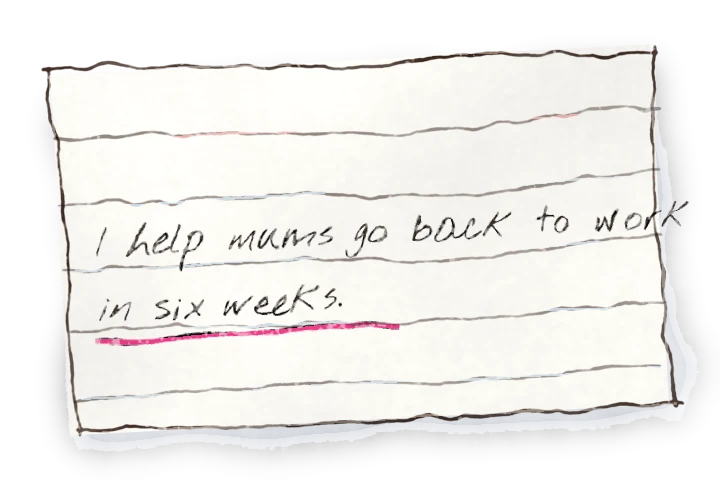
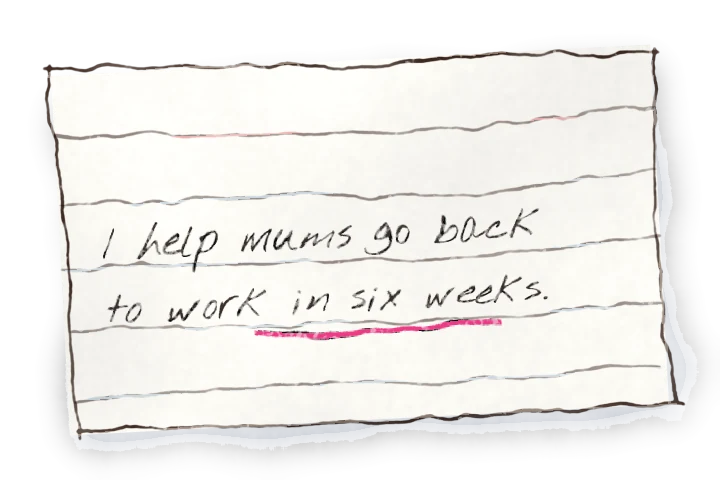
VIP page: thin pink 'Don't close or refresh this page' strip, floating header, coded Sprint lesson
- The warning is a thin pink strip above the header and scrolls away; the header is a floating pill with the steps segmented and no 'optional'.
- The Offer Clarity Sprint laptop shows a coded course player (her real lesson titles, money figures and later test questions blurred) that fills to 37% and ticks lessons as it comes into view.
- The clean card is repainted so the sentence fits; the EXAMPLE stamps and the phone-numbers line are gone.

Claude-Session: https://claude.ai/code/session_01MxqKXt8jC4twN2icxWpMeU

diff --git a/vip/index.html b/vip/index.html
@@ -1574,6 +1574,66 @@ footer{background-image:url(../img/vip/paint/tx-grain.webp);background-size:256p
 .anim .it .art.mv .dev,.anim .it.in .art.mv .dev{opacity:1;transform:none}
 .anim .it .art.mv .dev.ph{transform:none}
 .trk .sun{left:66%;width:min(600px,64%)}
+
+/* the top strip: thin, pink, scrolls away; the header is a floating pill */
+.keep{margin:0;padding:6px 16px;background:var(--pink);color:#fff;text-align:center;font-weight:700;font-size:13px;letter-spacing:.02em;line-height:1.3}
+.fb{position:sticky;top:10px;background:none;border:0;box-shadow:none;-webkit-backdrop-filter:none;backdrop-filter:none;padding:10px 16px 0}
+body.scrolled .fb{box-shadow:none}
+.fb-bar{max-width:1080px;margin:0 auto;grid-template-columns:auto 1fr auto;gap:22px;padding:8px 10px 8px 12px;border-radius:999px;
+  background:rgba(255,253,249,.86);-webkit-backdrop-filter:blur(18px) saturate(1.4);backdrop-filter:blur(18px) saturate(1.4);
+  border:1px solid rgba(26,20,18,.08);box-shadow:0 1px 1px rgba(60,40,20,.05),0 14px 34px -22px rgba(60,40,20,.45)}
+body.scrolled .fb-bar{padding:6px 8px 6px 10px}
+.fb-id img{width:36px;height:36px}
+body.scrolled .fb-id img{width:30px;height:30px}
+.fb-id b{font-size:19px}
+.steps{justify-self:center;gap:0;padding:4px;border-radius:999px;background:rgba(26,20,18,.045)}
+.st{padding:6px 14px 6px 8px;border-radius:999px;gap:8px;font-size:13px}
+.st i{width:20px;height:20px;font-size:10.5px}
+.st.now{background:#fff;box-shadow:0 1px 2px rgba(60,40,20,.12),0 4px 12px -6px rgba(247,37,133,.45);color:var(--ink)}
+.st.now i{box-shadow:none}
+.steps .ln{width:18px;margin:0 2px;background:rgba(26,20,18,.18)}
+.steps .ln.on{background:#2F9E5A}
+.fb-n{border:0;padding:0 12px 0 0;font-size:10.5px;letter-spacing:.18em}
+@media (max-width:860px){.fb{top:8px;padding:8px 10px 0}.fb-bar{grid-template-columns:auto 1fr auto;gap:8px}.st{padding:5px 8px}.fb-n{display:none}}
+@media (max-width:560px){.st .t{display:none}.st.now .t{display:inline}.st.now{padding:5px 10px 5px 6px}.keep{font-size:12px}}
+
+/* the Offer Clarity Sprint, coded: the course player, its money numbers blurred */
+.tch{position:absolute;inset:0;container-type:inline-size;display:grid;grid-template-columns:31% 1fr;background:#fff;font-family:Manrope,system-ui,sans-serif;color:#212121;overflow:hidden}
+.tch .bz{filter:blur(.55cqw);opacity:.85;user-select:none}
+.tch-side{background:#FAFAFA;border-right:1px solid #EEE;padding:3cqw 2cqw;overflow:hidden}
+.tch-t{display:block;font-weight:800;font-size:2.3cqw;letter-spacing:.02em}
+.tch-bar{display:block;height:.9cqw;margin:1.6cqw 0 .8cqw;border-radius:1cqw;background:#ECECEC;overflow:hidden}
+.tch-bar i{display:block;height:100%;width:0;background:#FFD600}
+.tch-pc{display:block;text-align:center;font-weight:800;font-size:1.7cqw;letter-spacing:.06em}
+.tch-pc b{font-size:2.6cqw}
+.tch-sec{margin:2.4cqw 0 1cqw;font-weight:800;font-size:2cqw;line-height:1.3}
+.tch-ls{list-style:none;display:grid;gap:.2cqw}
+.tch-ls li{display:grid;grid-template-columns:3cqw 1fr;gap:1.2cqw;align-items:center;padding:1cqw .6cqw;border-radius:.6cqw;font-size:1.75cqw;line-height:1.3}
+.tch-ls li i{width:2.6cqw;height:2.6cqw;border-radius:50%;border:.3cqw solid #FFD600;background:#fff}
+.tch-ls li.on{background:#FFF8D6}
+.tch-ls li.on i{background:linear-gradient(90deg,#FFD600 50%,#fff 50%)}
+.tch-ls li.dn i{background:#FFD600}
+.tch-main{padding:3.2cqw 4cqw;display:grid;align-content:start;gap:2cqw}
+.tch-h{font-weight:800;font-size:2.9cqw;line-height:1.2}
+.tch-vid{position:relative;aspect-ratio:16/9;border-radius:.8cqw;overflow:hidden;background:#1E1B3A}
+.tch-sl{position:absolute;inset:5% 8% 12%;color:#fff;display:grid;align-content:start;gap:.5cqw}
+.tch-sl .st{all:unset;display:block;text-align:center;color:#FFD600;font-weight:800;font-size:1.9cqw;letter-spacing:.04em}
+.tch-sl .ss{text-align:center;color:rgba(255,255,255,.55);font-size:1.4cqw;margin-bottom:.4cqw}
+.tch-sl ol{list-style:none;display:grid;gap:.45cqw}
+.tch-sl li{display:grid;grid-template-columns:2.6cqw 1fr auto;align-items:center;gap:1cqw;padding:.55cqw 1.2cqw;border-radius:.4cqw;background:rgba(255,255,255,.07);font-size:1.4cqw}
+.tch-sl li b{color:#FFD600;font-family:'Instrument Serif',serif;font-weight:400;font-size:1.9cqw}
+.tch-sl li em{font-style:normal;color:rgba(255,255,255,.4);font-size:1.1cqw;letter-spacing:.1em}
+.tch-sl li em.y{color:#FFD600;font-weight:800}
+.tch-sl .bands{display:grid;grid-template-columns:repeat(3,1fr);gap:1cqw;margin-top:.6cqw}
+.tch-sl .bands span{text-align:center;padding:.6cqw;border-radius:.3cqw;font-weight:800;font-size:1.15cqw;color:#fff}
+.tch-sl .bands span:nth-child(1){background:#16805A}.tch-sl .bands span:nth-child(2){background:#F2C21B;color:#212121}.tch-sl .bands span:nth-child(3){background:#E0457B}
+.tch-cam{position:absolute;left:2.5%;bottom:9%;width:15%;aspect-ratio:1;border-radius:50%;object-fit:cover;object-position:50% 25%;border:.3cqw solid #fff}
+.tch-ctl{position:absolute;left:0;right:0;bottom:0;display:flex;align-items:center;gap:1.6cqw;padding:1cqw 2cqw;background:linear-gradient(transparent,rgba(0,0,0,.55));color:#fff;font-size:1.3cqw}
+.tch-ctl .pp{width:0;height:0;border-left:1.3cqw solid #fff;border-top:.8cqw solid transparent;border-bottom:.8cqw solid transparent}
+.tch-ctl .tl{flex:1;height:.5cqw;border-radius:.5cqw;background:rgba(255,255,255,.35);overflow:hidden}
+.tch-ctl .tl i{display:block;height:100%;width:40%;background:#FF3D3D}
+.tch-ctl em{font-style:normal;font-weight:700}
+.tch-btn{justify-self:center;padding:1.2cqw 3cqw;border-radius:.6cqw;background:#FFD600;color:#fff;font-weight:800;font-size:2cqw}
 </style>
 </head>
 <body>
@@ -1596,17 +1656,18 @@ footer{background-image:url(../img/vip/paint/tx-grain.webp);background-size:256p
   <filter id="pencil" x="-5%" y="-20%" width="110%" height="140%"><feTurbulence type="fractalNoise" baseFrequency="1.1" numOctaves="1" seed="4" result="n"/><feColorMatrix in="n" type="matrix" values="0 0 0 0 0  0 0 0 0 0  0 0 0 0 0  0 0 0 -1.4 1.35" result="m"/><feComposite in="SourceGraphic" in2="m" operator="in" result="g"/><feTurbulence type="fractalNoise" baseFrequency=".04" numOctaves="2" seed="9" result="w"/><feDisplacementMap in="g" in2="w" scale="2.2"/></filter>
   <filter id="wob" x="-5%" y="-5%" width="110%" height="110%"><feTurbulence type="fractalNoise" baseFrequency=".035" numOctaves="2" seed="3" result="w"/><feDisplacementMap in="SourceGraphic" in2="w" scale="2"/></filter>
 </defs></svg>
+<p class="keep" role="note">Don’t close or refresh this page</p>
 <header class="fb">
   <div class="fb-bar">
     <div class="fb-id"><img src="../img/mark.png" alt="" width="44" height="44"><span><small>ANA CALIN</small><b>The Exit Plan</b></span></div>
     <div class="steps" aria-label="Step 2 of 3">
       <span class="st done"><i><svg width="12" height="12" style="color:#fff"><use href="#ck"/></svg></i><span class="t">Seat saved</span></span>
       <span class="ln on"></span>
-      <span class="st now"><i>2</i><span class="t">Optional VIP upgrade</span></span>
+      <span class="st now"><i>2</i><span class="t">VIP upgrade</span></span>
       <span class="ln"></span>
       <span class="st"><i>3</i><span class="t">Join details</span></span>
     </div>
-    <div class="fb-r"><span class="fb-keep"><i aria-hidden="true"></i>Don’t close this page</span><span class="fb-n">STEP 2 OF 3</span></div>
+    <div class="fb-r"><span class="fb-n">STEP 2 OF 3</span></div>
   </div>
 </header>
 
@@ -1821,7 +1882,6 @@ footer{background-image:url(../img/vip/paint/tx-grain.webp);background-size:256p
             <g class="mv-pen"><image href="../img/vip/paint/pencil.webp" x="-10" y="-28" width="320" height="60"/></g>
           </svg>
         </div>
-        <span class="rstamp mv-stamp" style="left:3%;top:2%">EXAMPLE</span>
       </div>
       <div class="tx">
         <span class="num">01</span>
@@ -1850,7 +1910,6 @@ footer{background-image:url(../img/vip/paint/tx-grain.webp);background-size:256p
           <g class="mv-clock" data-i="0"><circle cx="64" cy="402" r="38" fill="#FFFDF8" stroke="#2E2420" stroke-width="1.3" filter="url(#wob)"/><circle class="mv-wedge" cx="64" cy="402" r="18" fill="none" stroke="#F25A9C" stroke-width="36" transform="rotate(-90 64 402)" opacity=".85"/><g stroke="#2E2420" stroke-linecap="round"><line x1="64" y1="402" x2="78" y2="402" stroke-width="2.4"/><line class="mv-hand" x1="64" y1="402" x2="64" y2="372" stroke-width="1.8"/></g><circle cx="64" cy="402" r="2.6" fill="#2E2420"/><text x="64" y="462" text-anchor="middle" font-family="Nothing You Could Do,cursive" font-size="15" fill="#3D332E">Day 1</text></g><g class="mv-clock" data-i="1"><circle cx="166" cy="402" r="38" fill="#FFFDF8" stroke="#2E2420" stroke-width="1.3" filter="url(#wob)"/><circle class="mv-wedge" cx="166" cy="402" r="18" fill="none" stroke="#F25A9C" stroke-width="36" transform="rotate(-90 166 402)" opacity=".85"/><g stroke="#2E2420" stroke-linecap="round"><line x1="166" y1="402" x2="180" y2="402" stroke-width="2.4"/><line class="mv-hand" x1="166" y1="402" x2="166" y2="372" stroke-width="1.8"/></g><circle cx="166" cy="402" r="2.6" fill="#2E2420"/><text x="166" y="462" text-anchor="middle" font-family="Nothing You Could Do,cursive" font-size="15" fill="#3D332E">Day 2</text></g><g class="mv-clock" data-i="2"><circle cx="268" cy="402" r="38" fill="#FFFDF8" stroke="#2E2420" stroke-width="1.3" filter="url(#wob)"/><circle class="mv-wedge" cx="268" cy="402" r="18" fill="none" stroke="#F25A9C" stroke-width="36" transform="rotate(-90 268 402)" opacity=".85"/><g stroke="#2E2420" stroke-linecap="round"><line x1="268" y1="402" x2="282" y2="402" stroke-width="2.4"/><line class="mv-hand" x1="268" y1="402" x2="268" y2="372" stroke-width="1.8"/></g><circle cx="268" cy="402" r="2.6" fill="#2E2420"/><text x="268" y="462" text-anchor="middle" font-family="Nothing You Could Do,cursive" font-size="15" fill="#3D332E">Day 3</text></g>
           <g class="mv-sunwrap"><defs><clipPath id="horizon"><rect x="320" y="330" width="130" height="102"/></clipPath></defs><g clip-path="url(#horizon)"><g class="mv-sun" transform="translate(385 432)"><circle r="20" fill="#F5C518" stroke="#2E2420" stroke-width="1.2"/><g class="mv-rays" stroke="#2E2420" stroke-width="1.6" stroke-linecap="round"><line x1="0" y1="-25" x2="0" y2="-33" transform="rotate(0)"/><line x1="0" y1="-25" x2="0" y2="-33" transform="rotate(45)"/><line x1="0" y1="-25" x2="0" y2="-33" transform="rotate(90)"/><line x1="0" y1="-25" x2="0" y2="-33" transform="rotate(135)"/><line x1="0" y1="-25" x2="0" y2="-33" transform="rotate(180)"/><line x1="0" y1="-25" x2="0" y2="-33" transform="rotate(225)"/><line x1="0" y1="-25" x2="0" y2="-33" transform="rotate(270)"/><line x1="0" y1="-25" x2="0" y2="-33" transform="rotate(315)"/></g></g></g><path d="M330 432 H442" stroke="#2E2420" stroke-width="1.3" filter="url(#wob)"/><text x="386" y="462" text-anchor="middle" font-family="Nothing You Could Do,cursive" font-size="15" fill="#3D332E">one morning</text></g>
         </svg>
-        <span class="rstamp mv-stamp" style="right:2%;bottom:2%">EXAMPLE</span>
       </div>
       <div class="tx">
         <span class="num">02</span>
@@ -1858,14 +1917,31 @@ footer{background-image:url(../img/vip/paint/tx-grain.webp);background-size:256p
         <p class="meta"><b>Nov 17 to Nov 20</b> · Ana in the chat</p>
         <p>Sometimes the lesson makes perfect sense. Then you open your own document and think, “Yes, but what about mine?” Put that question in our private VIP WhatsApp group, along with the bit you’re working on.</p>
         <p>I’ll be there for 30 minutes after each workshop session, plus one morning slot. The free community has your reminders. This separate group is where we talk about the work.</p>
-        <p class="soft">Group members can see each other's phone numbers.</p>
       </div>
     </article>
 
     <!-- 03: the bonus: six ideas become one, then the course and its four parts -->
     <article class="it it3">
       <div class="art pa mv spr" aria-hidden="true">
-        <div class="dev lap l3" style="left:17%;top:13%;width:66%"><img src="../img/vip/paint/laptop.webp" alt="" width="600" height="420" loading="lazy"><div class="scrn2"><img src="../img/vip/raw/sprint-lesson.webp" alt="" loading="lazy"></div></div>
+        <div class="dev lap l3" style="left:17%;top:13%;width:66%"><img src="../img/vip/paint/laptop.webp" alt="" width="600" height="420" loading="lazy"><div class="scrn2"><div class="tch">
+            <div class="tch-side">
+              <b class="tch-t">THE OFFER CLARITY SPRINT</b>
+              <span class="tch-bar"><i></i></span><small class="tch-pc"><b>0</b>% COMPLETE</small>
+              <p class="tch-sec">How we make more money with the same offer</p>
+              <ol class="tch-ls"><li class=""><i></i><span>The <span class="bz">$•</span> That Changed My Life</span></li><li class=""><i></i><span>The One Sentence That Made <span class="bz">$•,•••</span></span></li><li class=""><i></i><span>The 3 Words That Kill Every Offer</span></li><li class="on"><i></i><span>How I Know If Something Will Sell Before I Build It</span></li><li class=""><i></i><span>The Day I Changed One Number And <span class="bz">•x’d</span> My Revenue</span></li><li class=""><i></i><span>The Email That Made <span class="bz">$•,•••</span></span></li><li class=""><i></i><span>Go Make Money</span></li><li class=""><i></i><span>What to expect in the <span class="bz">•••</span> Launch Lab</span></li></ol>
+              <p class="tch-sec">Bonus Chapter: Watch This First If You Sell Services</p>
+            </div>
+            <div class="tch-main">
+              <p class="tch-h">How I Know If Something Will Sell Before I Build It</p>
+              <div class="tch-vid">
+                <div class="tch-sl"><p class="st">“WILL IT SELL?” STRESS TEST</p><p class="ss">Score your offer. Yes = 1. No = 0.</p><ol><li class=""><b>1</b><span>Can you describe it in one sentence?</span><em>Y / N</em></li><li class=""><b>2</b><span>Are people ALREADY trying to fix this problem?</span><em>Y / N</em></li><li class="bz"><b>3</b><span>•••• ••• •••• •• ••••••• ••••</span><em>Y / N</em></li><li class="bz"><b>4</b><span>•••• ••• •••• •• ••••••• ••••</span><em>Y / N</em></li><li class="bz"><b>5</b><span>•••• ••• •••• •• ••••••• ••••</span><em>Y / N</em></li><li class="bz"><b>6</b><span>•••• ••• •••• •• ••••••• ••••</span><em>Y / N</em></li><li class="bz"><b>7</b><span>•••• ••• •••• •• ••••••• ••••</span><em>Y / N</em></li></ol>
+                  <div class="bands"><span>6–7: Ship it this week</span><span>4–5: Fix + ship</span><span>0–3: New angle</span></div></div>
+                <img class="tch-cam" src="../img/real/ana-real-a.webp" alt="">
+                <span class="tch-ctl"><i class="pp"></i><span class="tl"><i></i></span><em>4:25</em></span>
+              </div>
+              <span class="tch-btn">Complete and Continue ›</span>
+            </div>
+          </div></div></div>
         <img class="mv-note" src="../img/vip/paint/note-y.webp" alt="" style="left:0%;top:0%;width:21%;--r:-10deg"><img class="mv-note" src="../img/vip/paint/note-g.webp" alt="" style="left:2%;top:50%;width:21%;--r:8deg"><img class="mv-note" src="../img/vip/paint/note-b.webp" alt="" style="left:74%;top:-2%;width:21%;--r:7deg"><img class="mv-note" src="../img/vip/paint/note-y.webp" alt="" style="left:79%;top:36%;width:21%;--r:-6deg"><img class="mv-note" src="../img/vip/paint/note-g.webp" alt="" style="left:22%;top:66%;width:21%;--r:-4deg"><img class="mv-note pink" src="../img/vip/paint/note-p.webp" alt="" style="left:66%;top:62%;width:21%;--r:5deg">
         <img class="mv-card" src="../img/vip/paint/card1.webp" alt="" style="right:-2%;bottom:0;width:46%">
         <span class="src" style="left:24%;top:72%">From the Offer Clarity Sprint</span>
@@ -2153,7 +2229,7 @@ footer{background-image:url(../img/vip/paint/tx-grain.webp);background-size:256p
 <script src="../assets/vendor/DrawSVGPlugin.min.js"></script>
 <script src="../assets/vendor/MotionPathPlugin.min.js"></script>
 <script src="../assets/vendor/MorphSVGPlugin.min.js"></script>
-<script src="../assets/vip-motion.js?v=2"></script>
+<script src="../assets/vip-motion.js?v=3"></script>
 
 </body>
 </html>

diff --git a/assets/vip-motion.js b/assets/vip-motion.js
@@ -133,8 +133,7 @@
         .add(pen.go(168, 168, .45, 26), 6.9)
         .add(draw(tick, .35, pen, 'power2.in'), 7.35)
         .add(pen.go(380, -60, .8, 30, -60), 7.8)
-        .fromTo($('.mv-stamp', rv), { scale: 2.4, opacity: 0, rotation: -18 }, { scale: 1, opacity: .85, rotation: -7, duration: .35, ease: 'back.out(2.6)' }, 8.1)
-        .to(box1, { y: 3, duration: .08, yoyo: true, repeat: 1 }, 8.42);
+        ;
       when(rv, t1);
     }
 
@@ -163,7 +162,6 @@
           .to(o, { t: 1, duration: 1.1, ease: 'power1.inOut', onUpdate: function () { w.style.strokeDashoffset = L * (1 - o.t * .5); h.setAttribute('transform', 'rotate(' + (o.t * 180).toFixed(1) + ' ' + cx + ' 402)') } }, 4.6 + i * 1.0);
       });
       if (sun) t2.from(sun, { y: '+=56', duration: 1.6, ease: 'power2.out' }, 7.5);
-      t2.fromTo($('.mv-stamp', wa), { scale: 2.4, opacity: 0, rotation: -18 }, { scale: 1, opacity: .85, rotation: -6, duration: .35, ease: 'back.out(2.6)' }, 8.6);
       t2.add(function () { if (reduce) return;
         gsap.to(bars, { scaleY: function () { return rnd(.35, 1.4) }, transformOrigin: '50% 50%', duration: .28, repeat: -1, yoyo: true, repeatRefresh: true, stagger: { each: .05, from: 'random' }, ease: 'sine.inOut' });
         if (rays) gsap.to(rays, { rotation: 360, svgOrigin: '0 0', duration: 40, repeat: -1, ease: 'none' });
@@ -180,7 +178,12 @@
       function delta(el, tx, ty) { var a = sp.getBoundingClientRect(), b = el.getBoundingClientRect();
         return { x: a.left + a.width * tx - (b.left + b.width / 2), y: a.top + a.height * ty - (b.top + b.height / 2) } }
       var t3 = gsap.timeline();
+      var tchBar = $('.tch-bar i', sp), tchPc = $('.tch-pc b', sp), tchLs = $$('.tch-ls li', sp).slice(0, 3), ys = $$('.tch-sl li em', sp).slice(0, 2), pc = { v: 0 };
       t3.from($('.l3', sp), { y: 34, opacity: 0, duration: 1, ease: 'power3.out' }, 0)
+        .to(pc, { v: 37, duration: 1.6, ease: 'power2.out', onUpdate: function () { if (tchPc) tchPc.textContent = Math.round(pc.v) } }, .8)
+        .fromTo(tchBar, { width: '0%' }, { width: '37%', duration: 1.6, ease: 'power2.out' }, .8)
+        .add(function () { tchLs.forEach(function (li, i) { setTimeout(function () { li.classList.add('dn') }, i * 260) }) }, .9)
+        .add(function () { ys.forEach(function (e, i) { setTimeout(function () { e.textContent = 'Y'; e.classList.add('y') }, i * 420) }) }, 1.6)
         .from(notes, { y: -60, opacity: 0, rotation: '+=30', duration: .8, ease: 'back.out(1.6)', stagger: .09 }, .3)
         .to(notes, { rotation: '+=4', duration: .18, yoyo: true, repeat: 3, ease: 'sine.inOut', stagger: .05 }, 1.3);
       others.forEach(function (n, i) {

diff --git a/tools/paint/studio.html b/tools/paint/studio.html
@@ -522,8 +522,8 @@ svg[data-art]{background:transparent;display:block}
   <g data-mat="shadow" fill="#7E889A"><g transform="translate(6 9) rotate(-3 180 120)"><rect x="30" y="30" width="300" height="180"/></g></g>
   <g data-mat="sheet" fill="#FFFDF8"><g transform="rotate(-3 180 120)"><rect x="30" y="30" width="300" height="180"/></g></g>
   <g data-mat="ink" data-density=".55" fill="none" stroke-width=".8"><g transform="rotate(-3 180 120)"><path d="M30 64 H330" stroke="#D9707A"/><path d="M30 96 H330 M30 128 H330 M30 160 H330 M30 192 H330" stroke="#9DB7D2"/></g></g>
-  <g data-mat="pencil" fill="#2E2420"><g transform="rotate(-3 180 120)"><text x="48" y="122" class="hand" font-size="21">I help mums go back to work</text><text x="48" y="154" class="hand" font-size="21">in six weeks.</text></g></g>
-  <g data-mat="pencil" fill="none" stroke="#EC3486" stroke-width="2.6"><g transform="rotate(-3 180 120)"><path d="M48 164 C120 168 170 160 196 163"/></g></g>
+  <g data-mat="pencil" fill="#2E2420"><g transform="rotate(-3 180 120)"><text x="52" y="123" class="hand" font-size="22">I help mums go back</text><text x="52" y="155" class="hand" font-size="22">to work in six weeks.</text></g></g>
+  <g data-mat="pencil" fill="none" stroke="#EC3486" stroke-width="2.6"><g transform="rotate(-3 180 120)"><path d="M128 165 C170 169 214 162 246 165"/></g></g>
   <g data-mat="ink" stroke="#8A7A6E" stroke-width=".9" fill="none"><g transform="rotate(-3 180 120)"><rect x="30" y="30" width="300" height="180"/></g></g>
 </svg>
 <!-- the week planner: Tue, Wed, Thu; Wednesday left empty for the sticky -->
